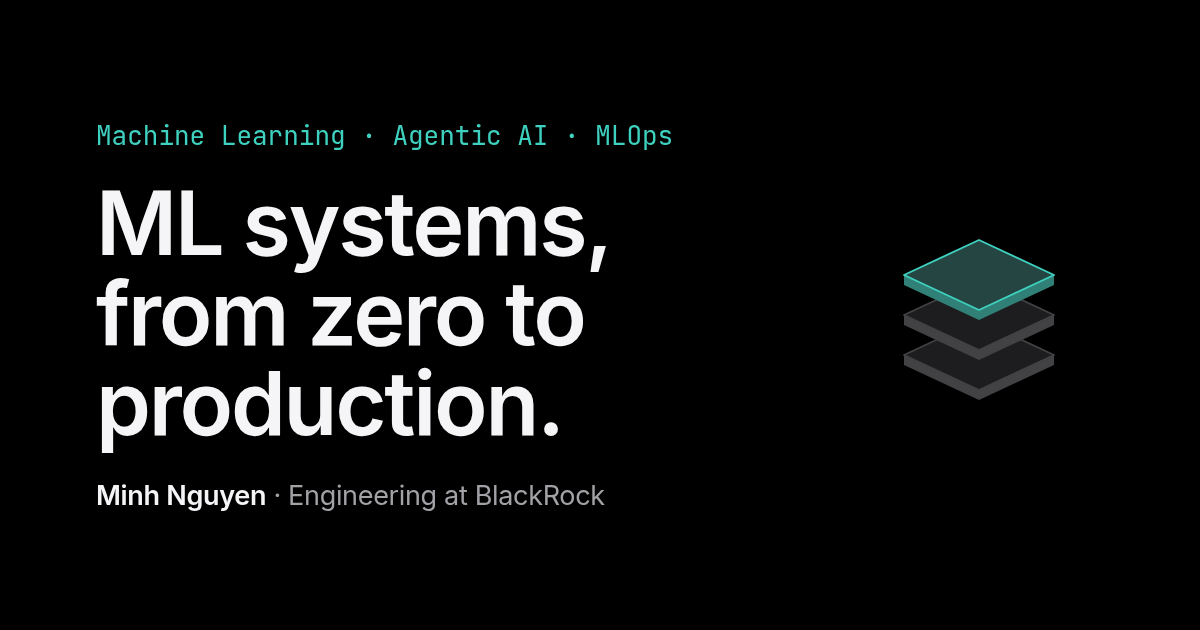
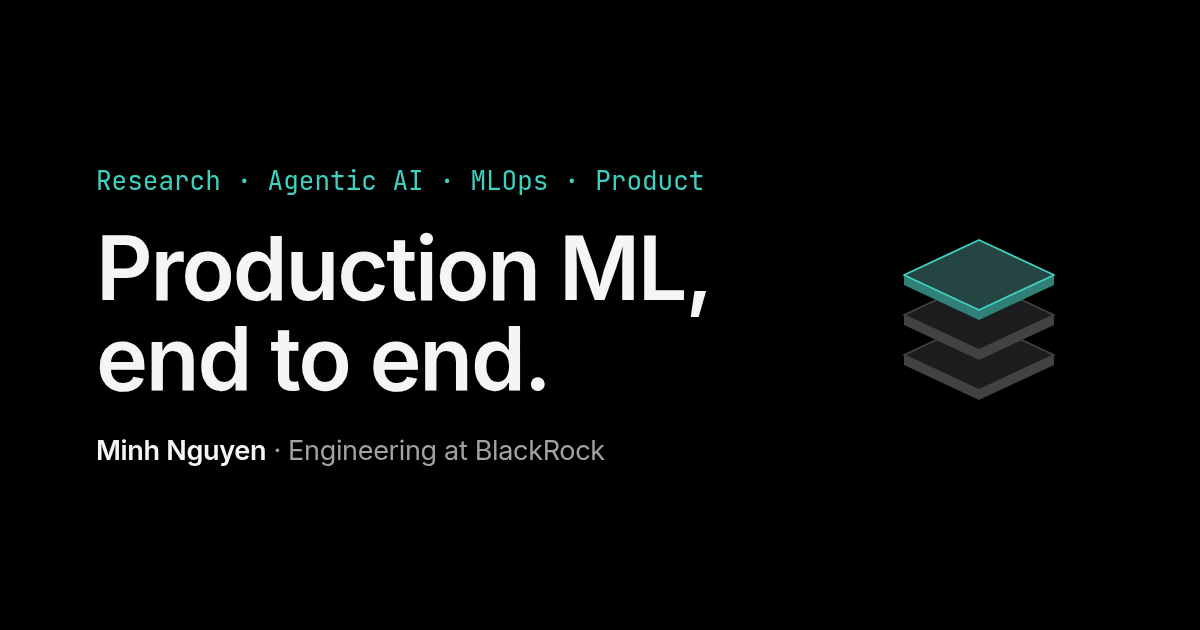
Tighten the home hero headline and tagline
"Production ML, end to end." leads with the keyword MLE hiring reads for;
the tagline becomes Research · Agentic AI · MLOps · Product. Regenerate
public/og.png (the link-preview image) to match.

diff --git a/src/data/site.ts b/src/data/site.ts
@@ -34,8 +34,8 @@ export const SITE = {
   },
 
   home: {
-    headline: 'ML systems, from zero to production.',
-    intro: 'Machine Learning · Agentic AI · MLOps · Research',
+    headline: 'Production ML, end to end.',
+    intro: 'Research · Agentic AI · MLOps · Product',
     featuredTitle: 'Projects.',
     latestTitle: 'Writing.'
   },
